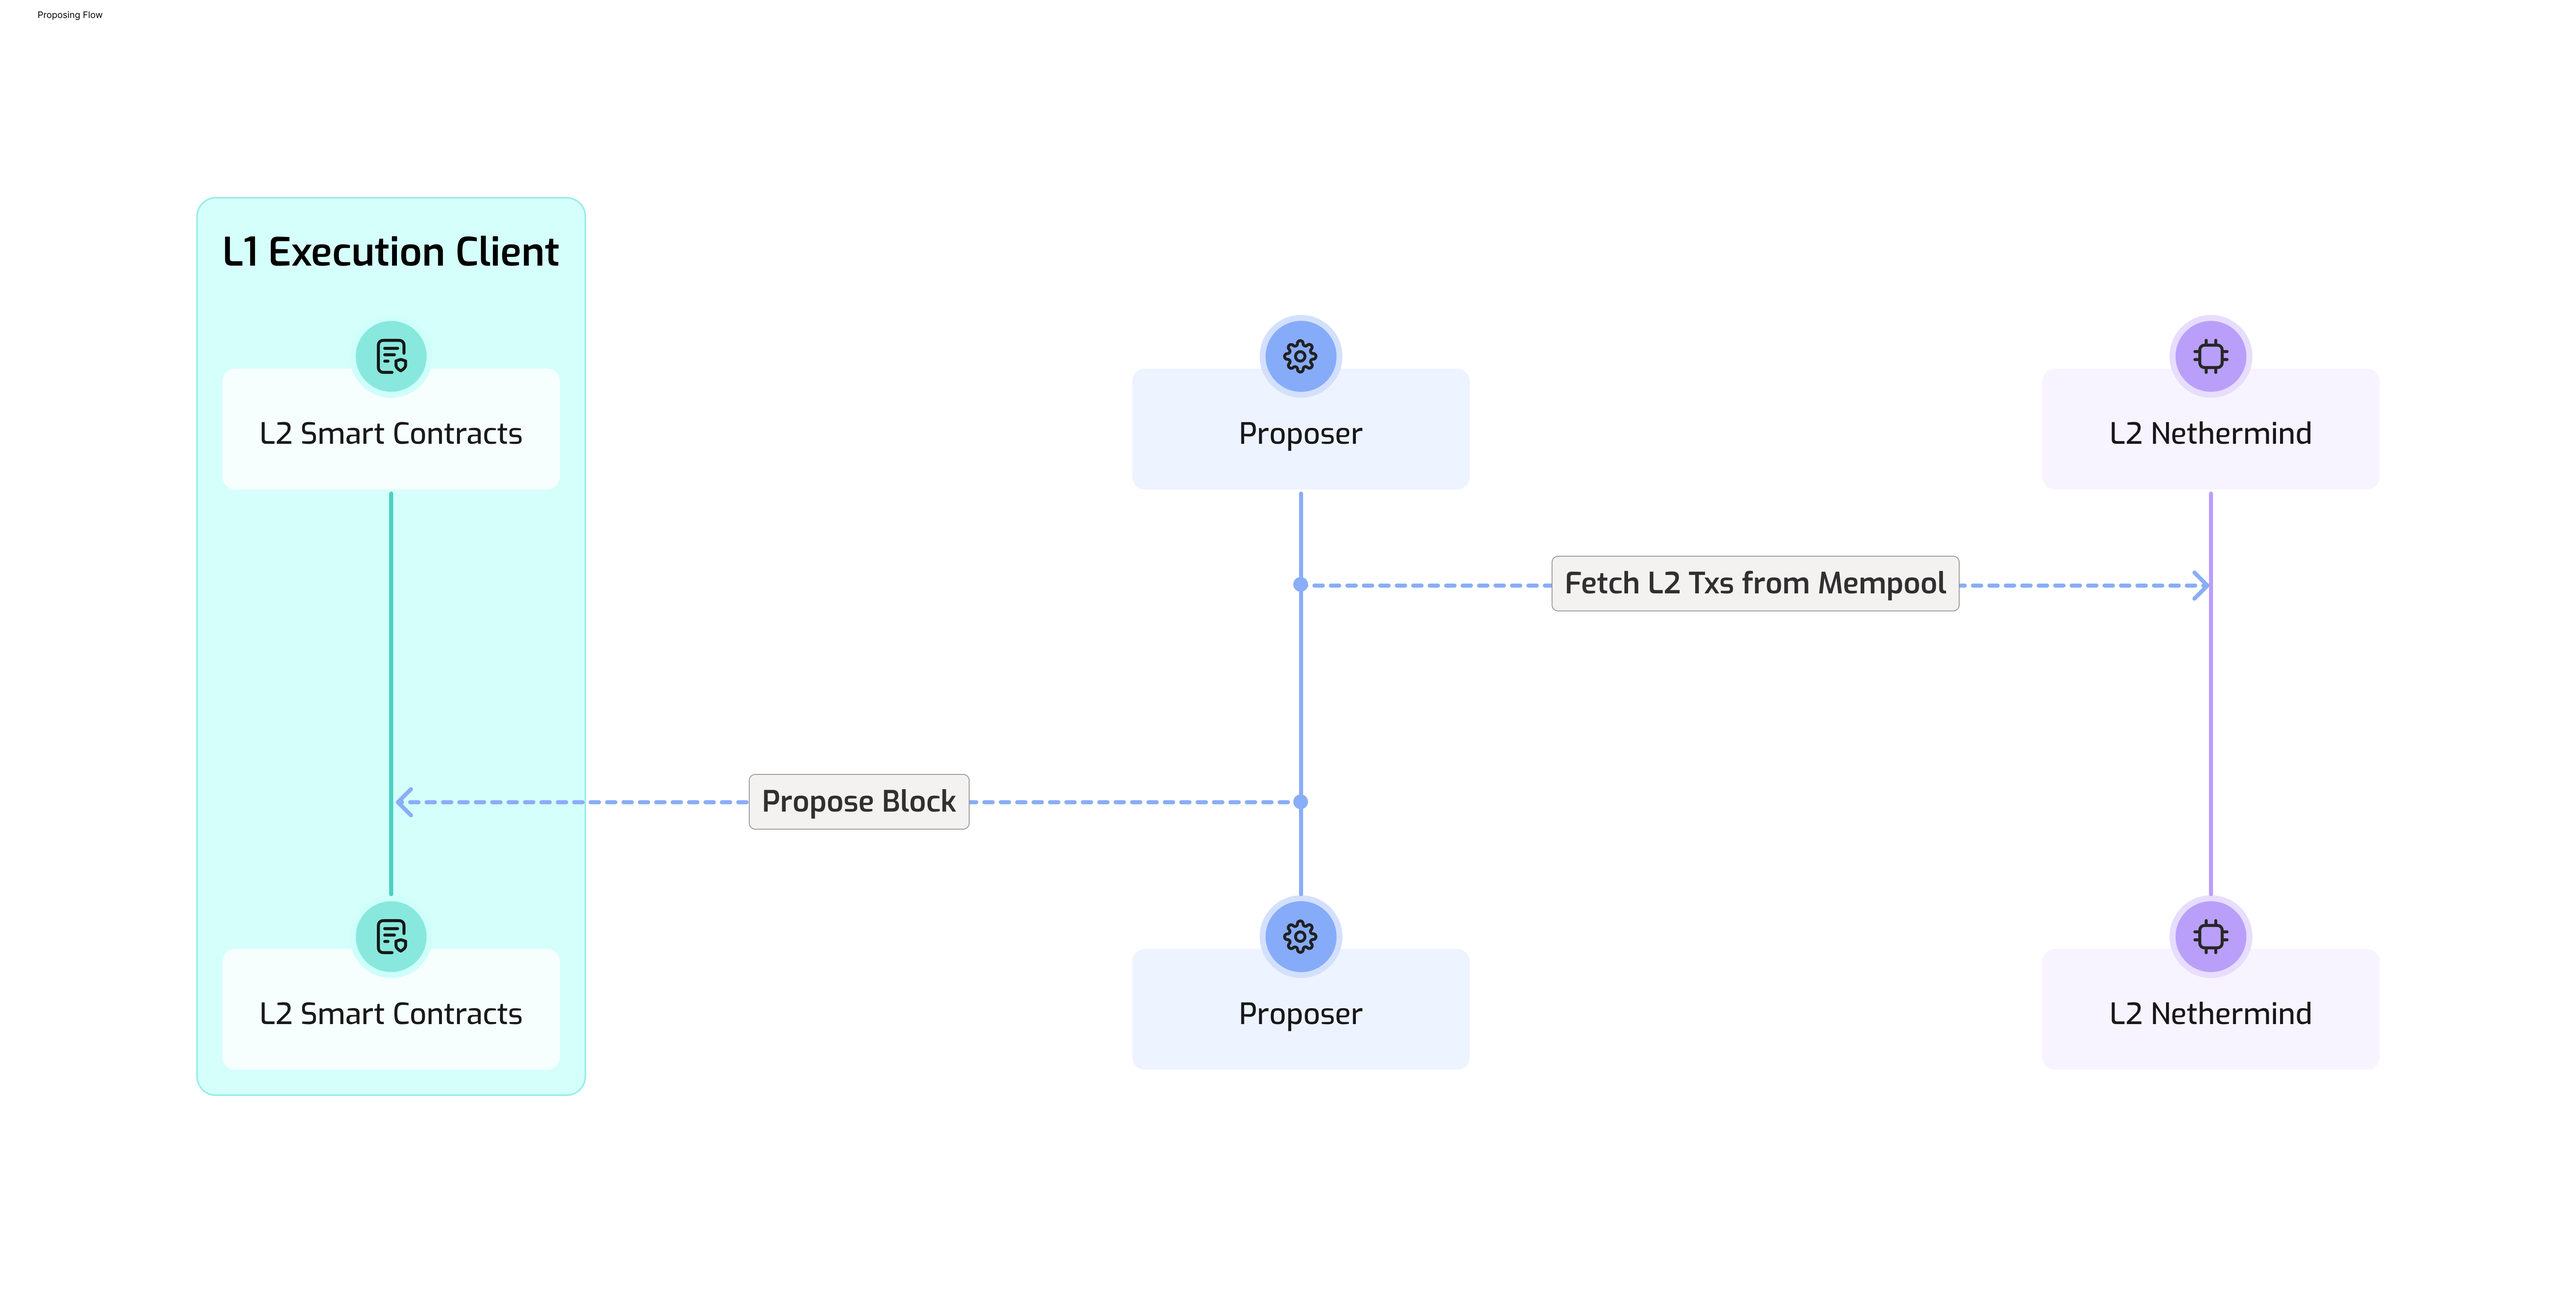
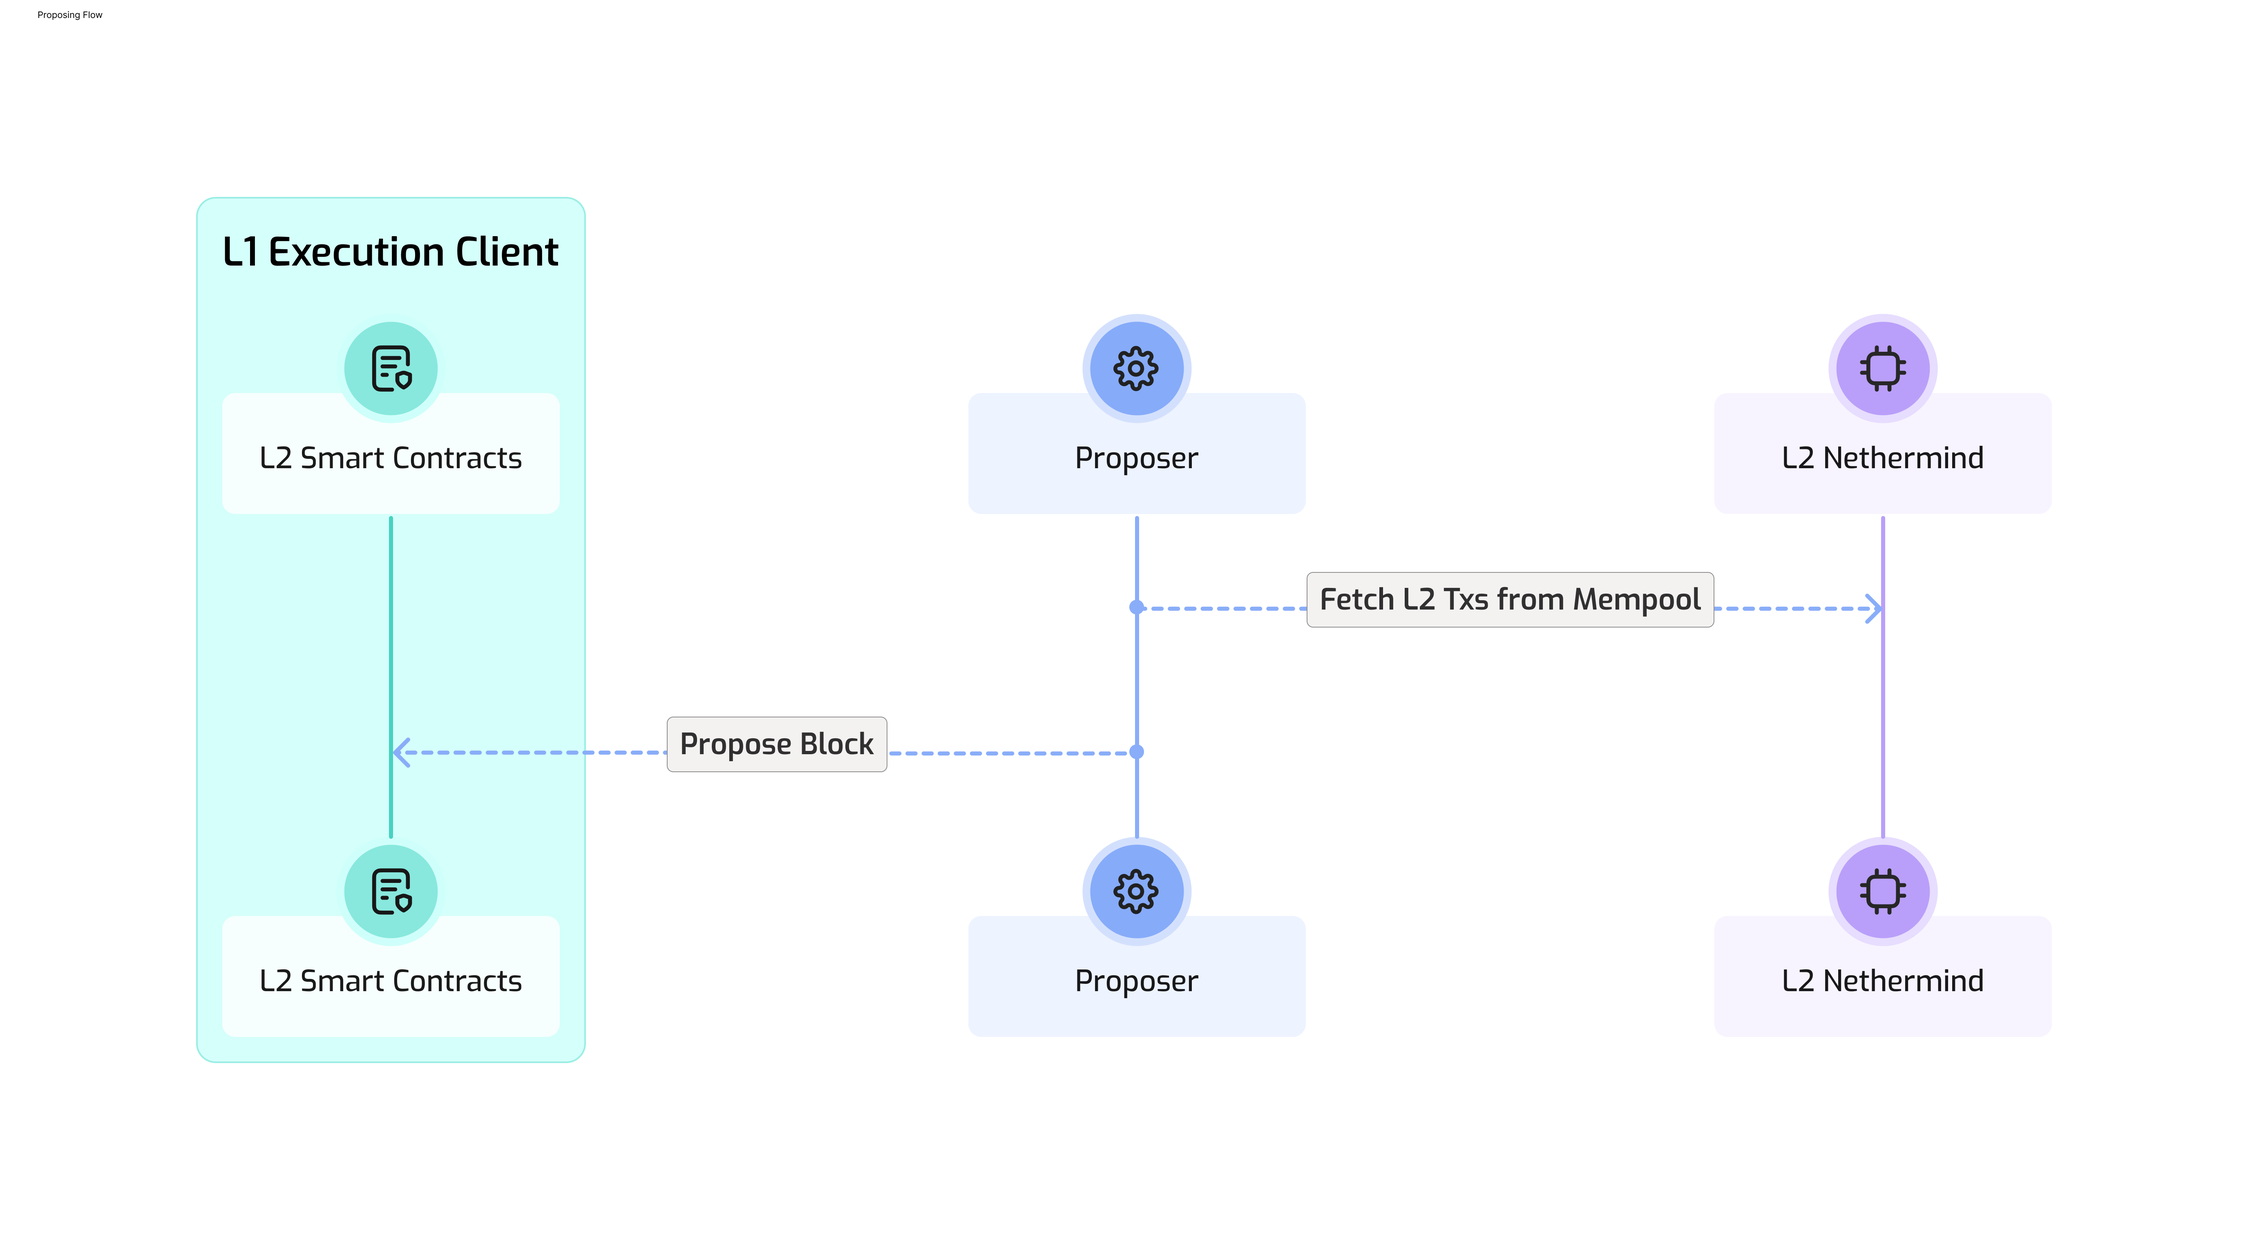
feat: diagrams updated, gigagas links added (#50)

diff --git a/src/pages/index.tsx b/src/pages/index.tsx
@@ -274,6 +274,11 @@ const itemLinks = [
     to: '/docs/about/nethermind',
   },
   {
+    title: 'GigaGas',
+    description: 'Understand how GigaGas enables high-performance transaction processing in Surge.',
+    to: '/docs/about/gigagas',
+  },
+  {
     title: 'Deploy a DApp',
     description: 'Learn how to deploy your DApp on Surge',
     to: '/docs/guides/deploy-on-surge',

diff --git a/docs/intro.md b/docs/intro.md
@@ -14,7 +14,7 @@ compromising on security.
 Surge stands out by adopting
 a [Stage 2 security framework](https://medium.com/l2beat/introducing-stages-a-framework-to-evaluate-rollups-maturity-d290bb22befe#:~:text=Stage%202%20%E2%80%94%20No,from%20governance%20attacks.)
 from the very beginning, leveraging Ethereum validators rather than a centralized sequencer for transaction ordering,
-and aiming for GigaGas throughput through
+and aiming for [GigaGas](./about/gigagas.md) throughput through
 the [Nethermind Execution Client](https://github.com/NethermindEth/nethermind) (NMC). Surge uses ETH for gas and bonds,
 avoiding the need for an L2 governance token. Together, these design decisions ensure robust decentralization and
 censorship resistance while maintaining alignment with Ethereum's core principles.
@@ -28,7 +28,7 @@ censorship resistance while maintaining alignment with Ethereum's core principle
 - **Tokenless:** Uses Ether (ETH) for gas and bonds, avoiding the need for an L2 governance token and the misaligned
   incentives that often accompany them.
 - **GigaGas Performance:** Leveraging Nethermind Client's already
-  demonstrated GigaGas ability (as showcased in
+  demonstrated [GigaGas](./about/gigagas.md) ability (as showcased in
   [Nethermind Client v1.30.0](https://github.com/NethermindEth/nethermind/releases/tag/1.30.0)), Surge achieves
   extraordinary throughput capabilities that scale far beyond traditional execution environments. For more details, see the [GigaGas documentation](./about/gigagas.md).
 - **Multi-Prover Proof System:** Employs zero-knowledge proofs for trustless scaling with a 2/3 multi-prover security
@@ -74,7 +74,7 @@ commercial product demands or mainstream usability expectations.
 
 Surge represents one component of Nethermind's broader rollup roadmap, which includes:
 
-- **Surge Rollup Template:** The core based rollup platform with GigaGas capabilities.
+- **Surge Rollup Template:** The core based rollup platform with [GigaGas](./about/gigagas.md) capabilities.
 - **Surge Power-Ups:** Open-source plugins that can enhance any based rollup with preconfirmations, optimized proving,
   advanced block building, and seamless layer composability.
 
